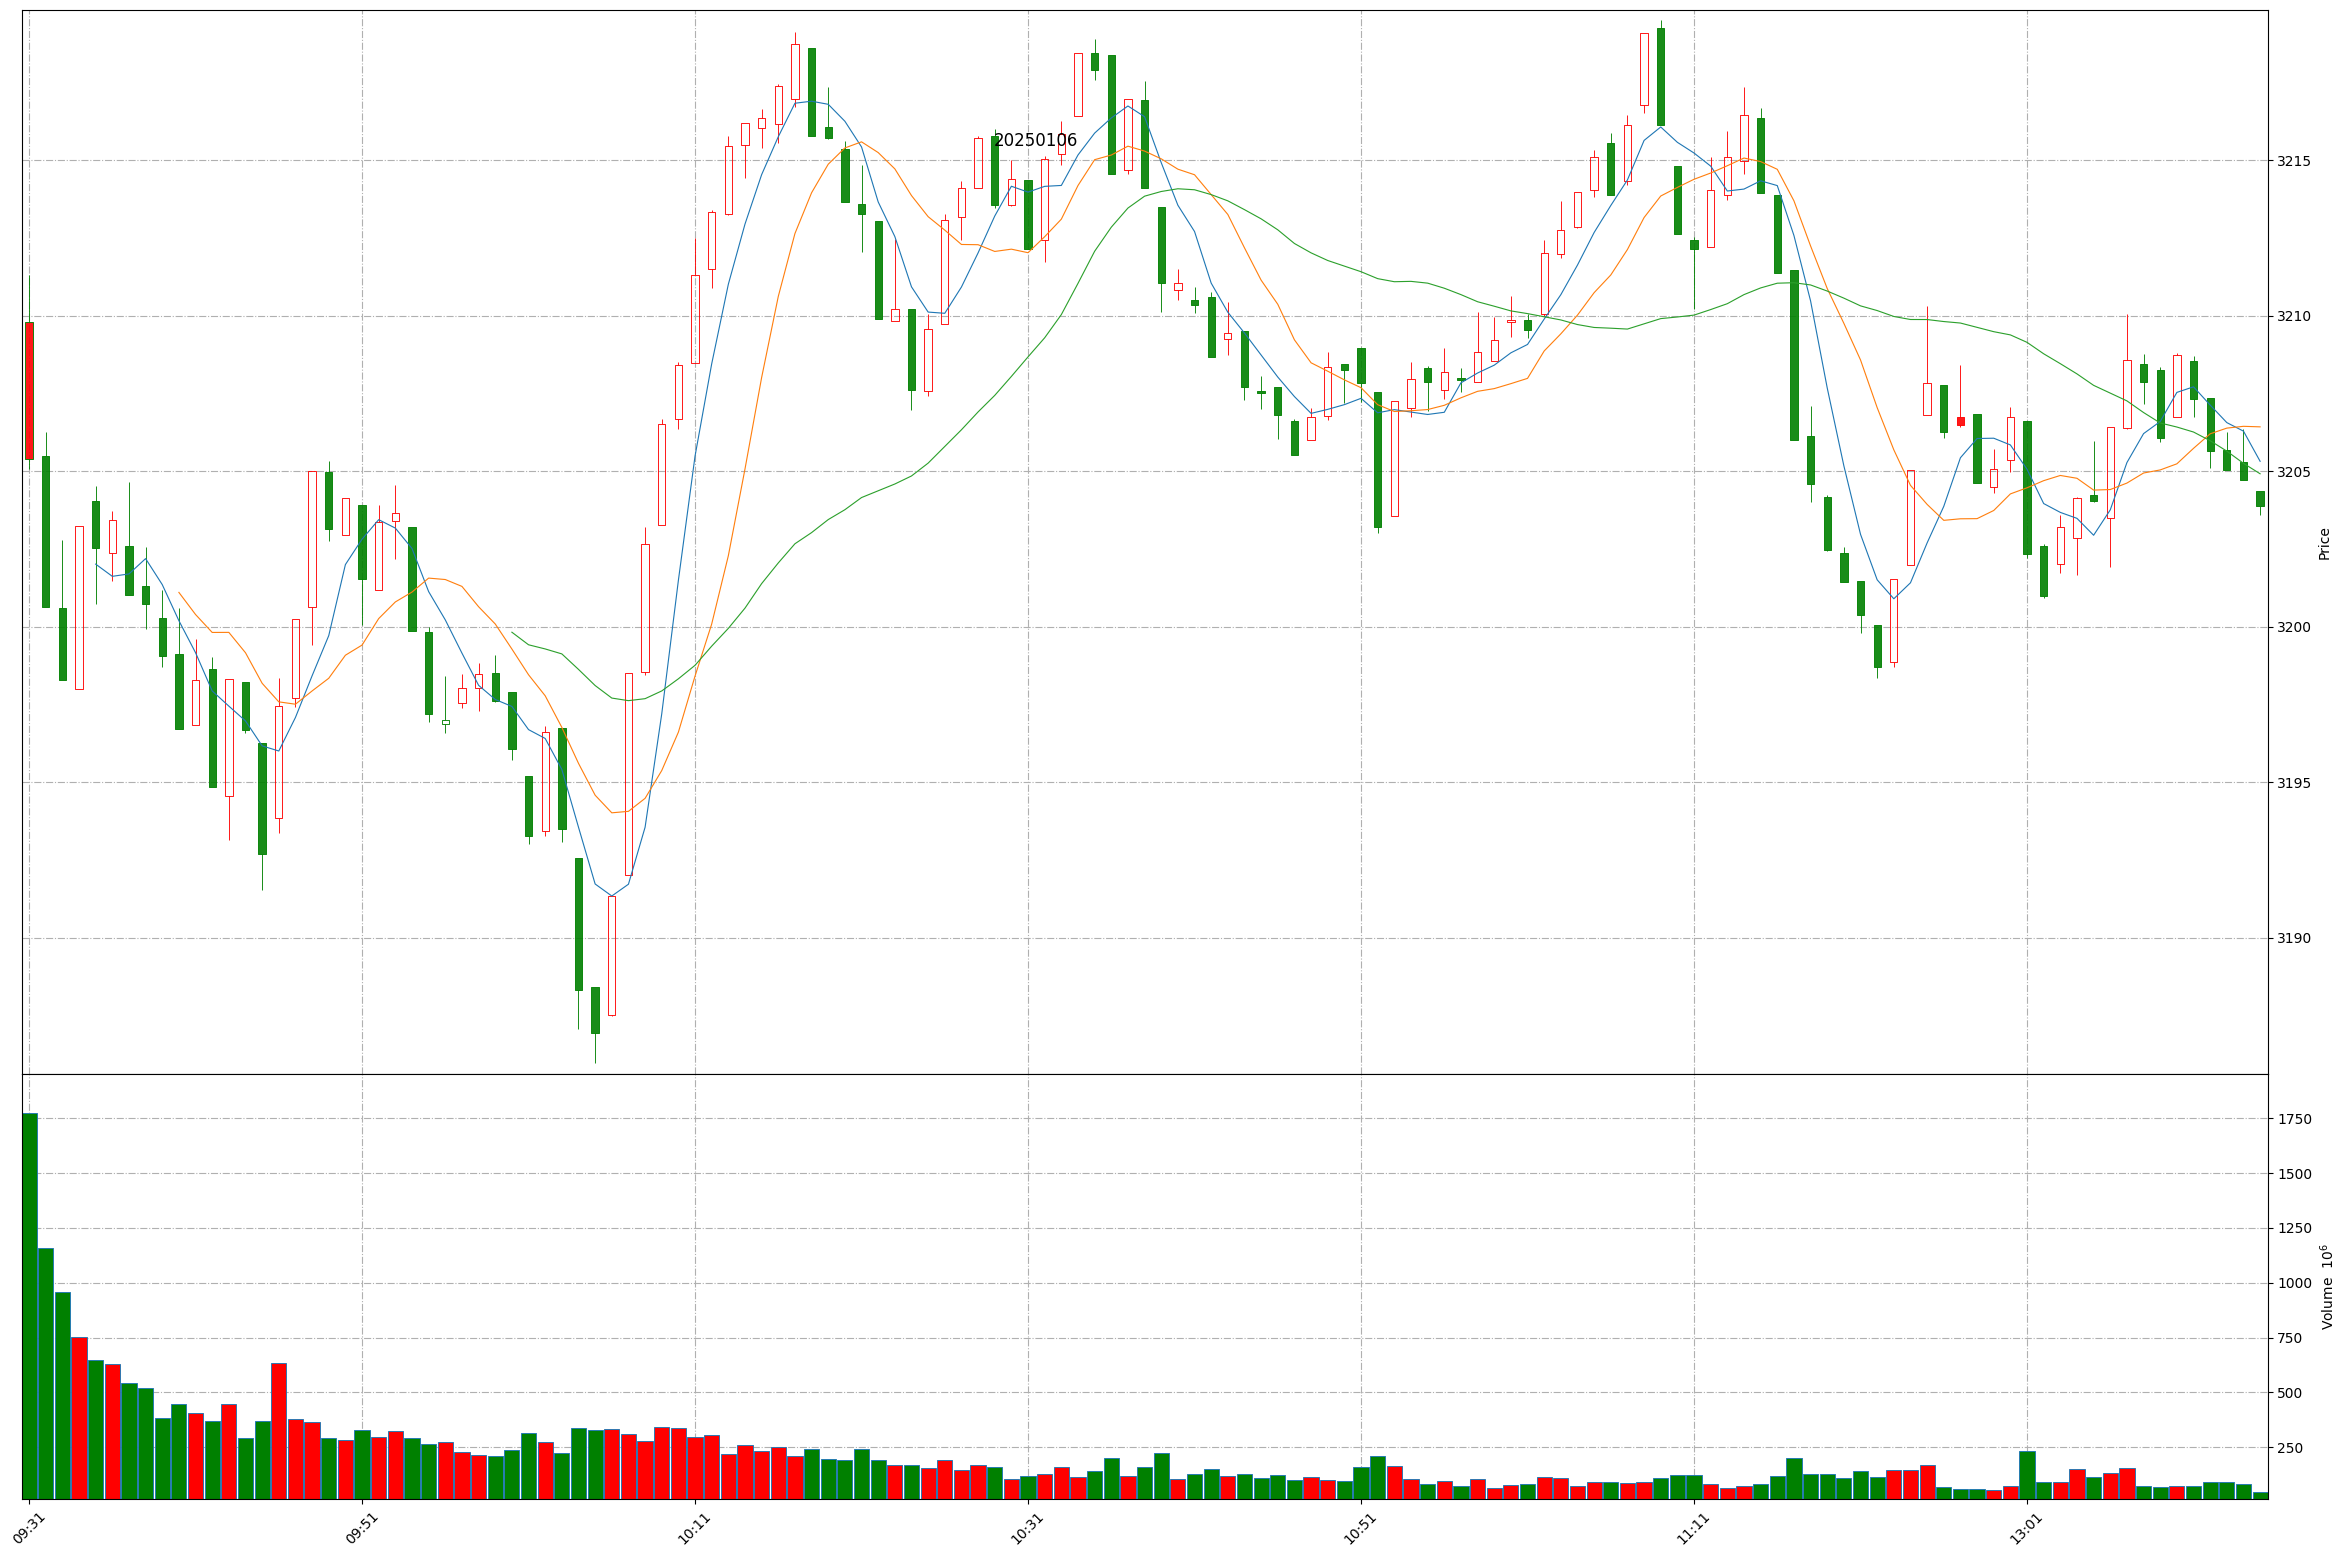
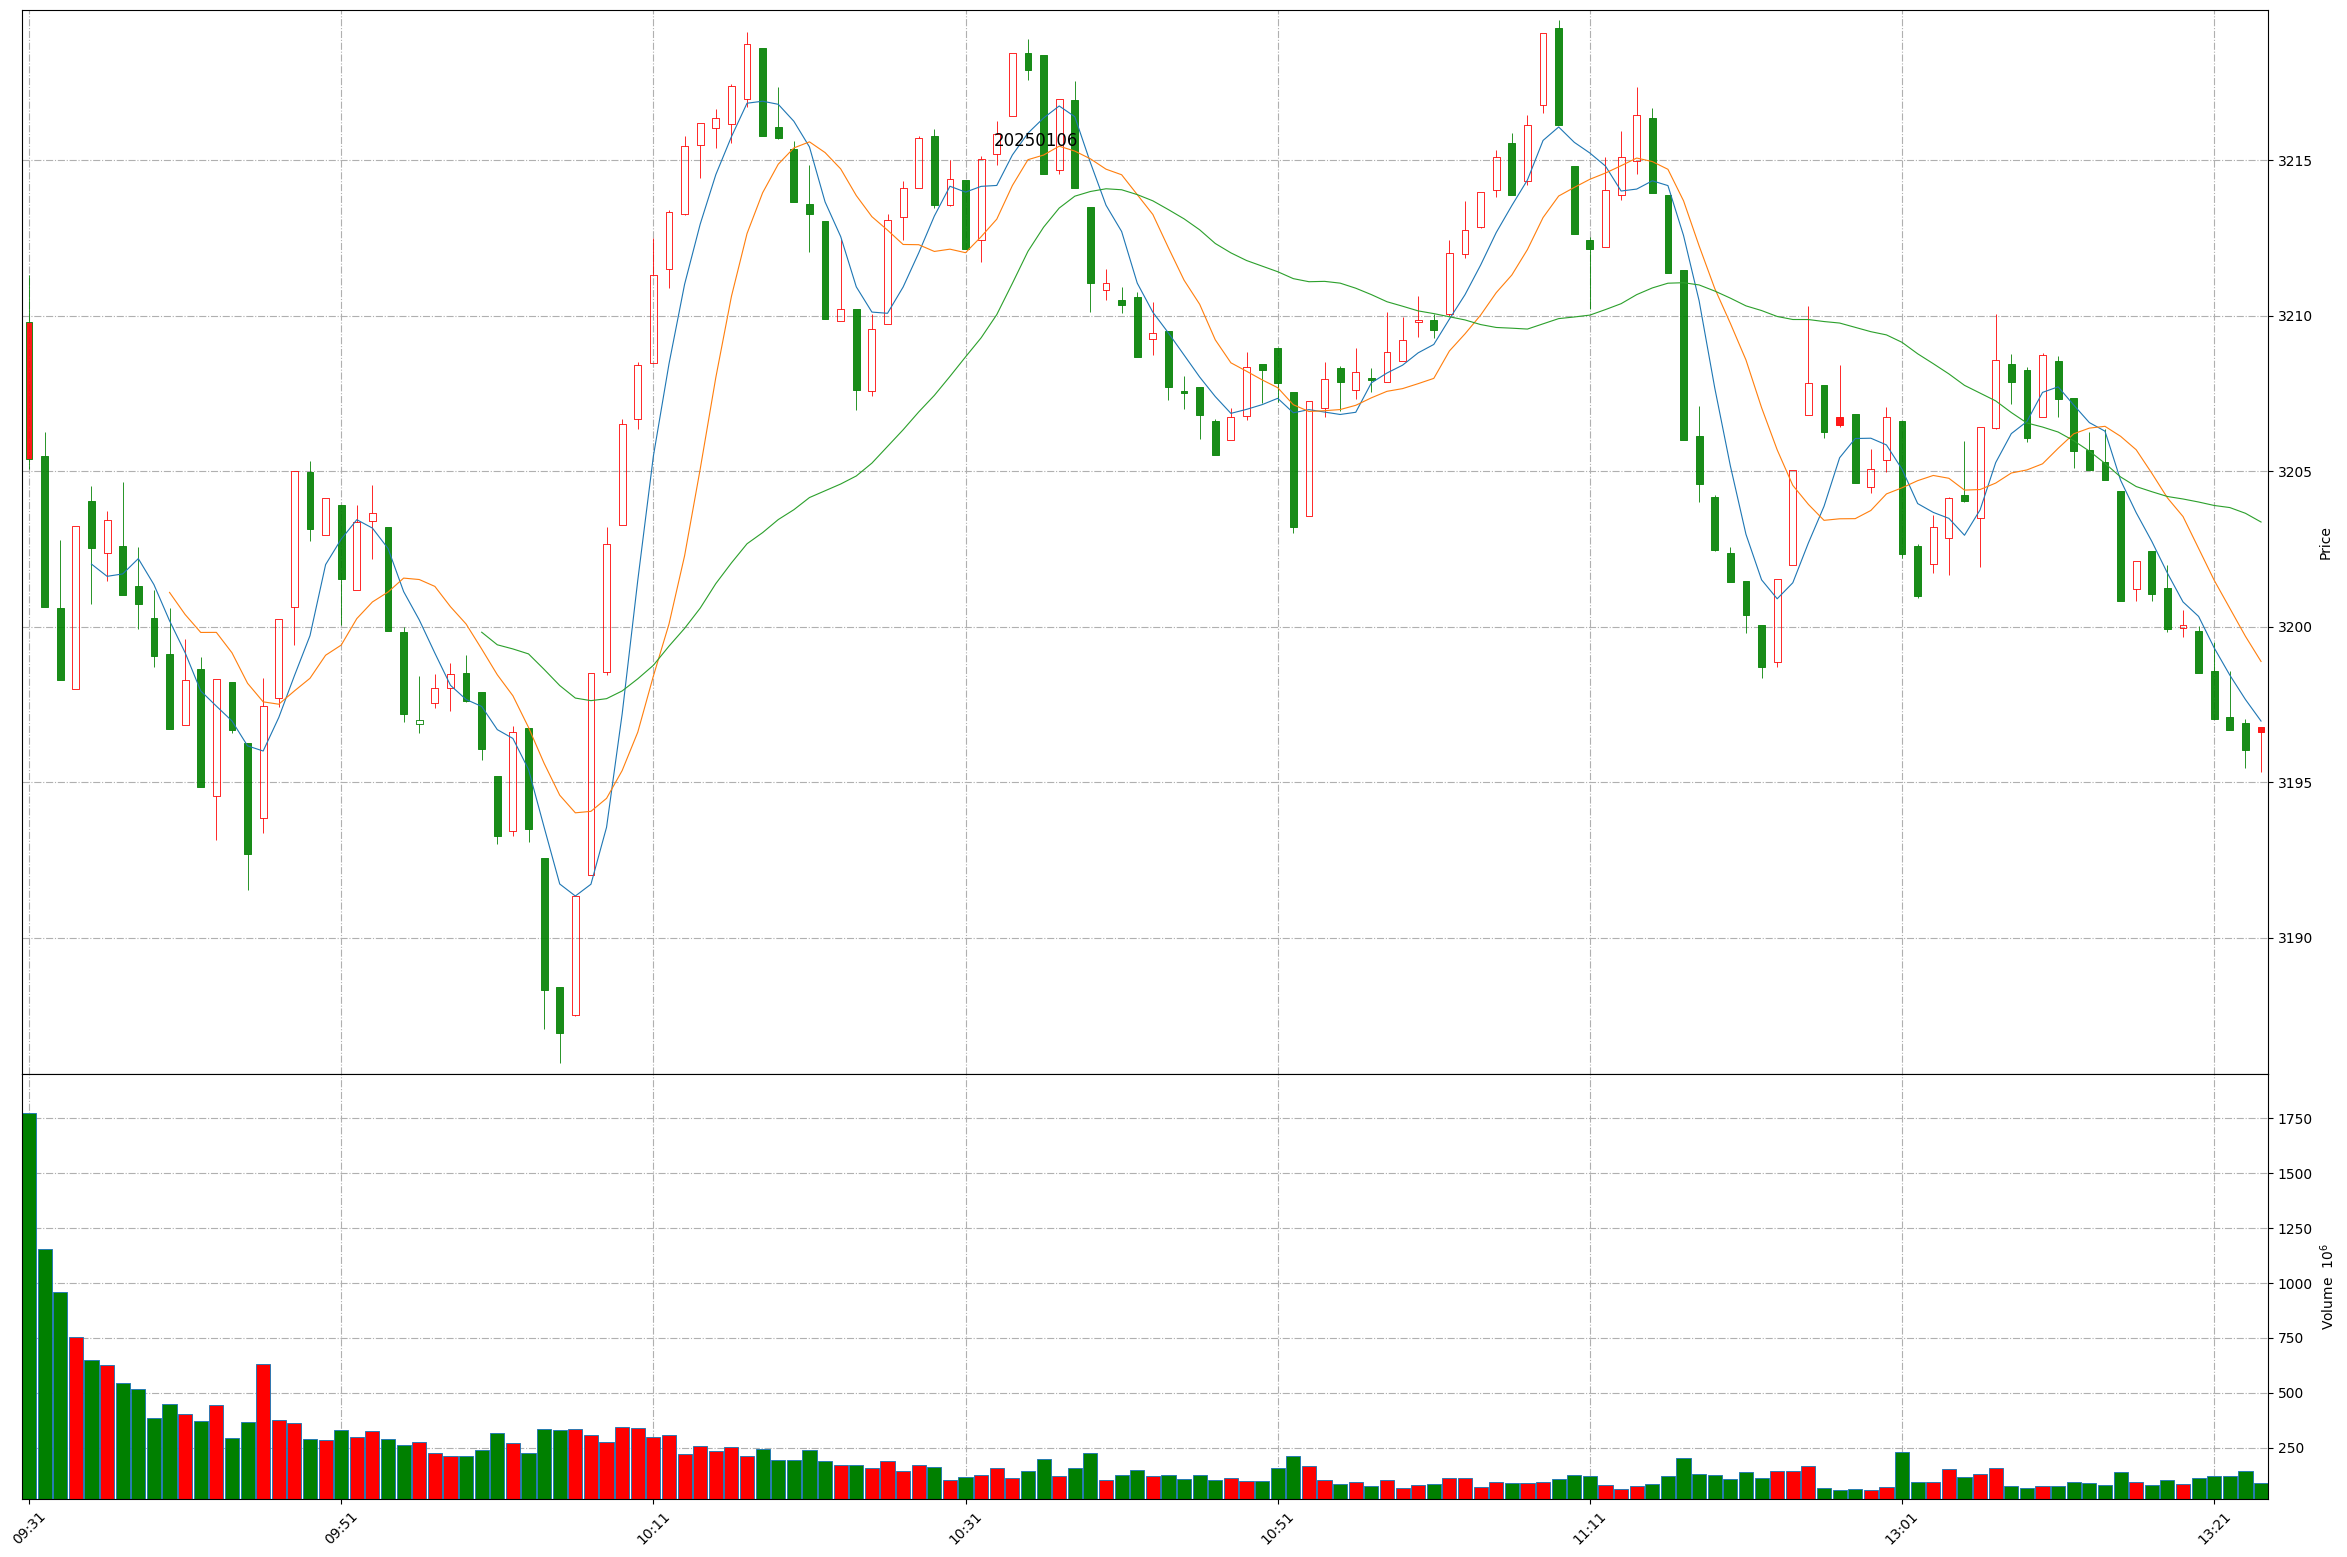
Github action update at 2025-01-06 13:24:19.

diff --git a/README.md b/README.md
@@ -1,11 +1,11 @@
 
 # Daily-A-share-market-quotes 每日 A 股指数（5min 更新）- 20250106
 
-### 上证指数 20250106 13:14
+### 上证指数 20250106 13:24
 ![](./fig/2025/1/20250106-sh000001.png)
 
-### 深证成指 20250106 13:14
+### 深证成指 20250106 13:24
 ![](./fig/2025/1/20250106-sz399001.png)
 
-### 北证50 20250106 13:14
+### 北证50 20250106 13:24
 ![](./fig/2025/1/20250106-bj899050.png)
